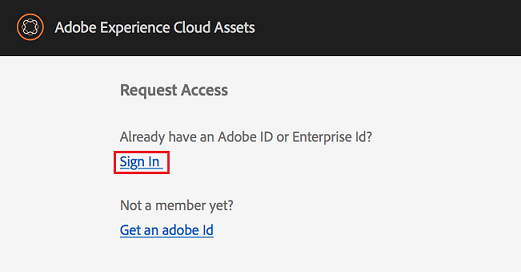
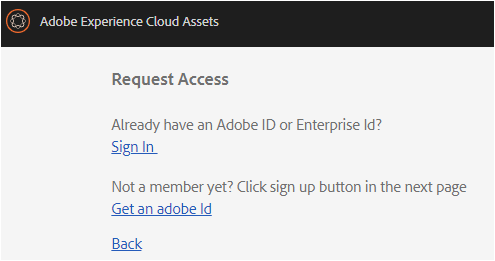
minorfixes to overview

diff --git a/help/using/brand-portal.md b/help/using/brand-portal.md
@@ -130,40 +130,38 @@ To request access, do the following:
 2. To be able to request access to an organization’s Brand Portal, you must have a valid Adobe ID, Enterprise ID, or Federated ID.
 
    In the **Request Access** page, sign in using your ID (scenario 1) or create an Adobe ID (scenario 2):
-
-    * Scenario 1: If you have an Adobe ID, Enterprise ID, or Federated ID, click **Sign In**.
-
    ![Request access](assets/bplogin_request_access_2.png)
 
-   The **Sign in** page opens. Provide your Adobe ID credentials and click **Sign in**.
-   ![Adobe sign in](assets/bplogin_request_access_3.png)
+    **Scenario 1**
+    **i.** If you have an Adobe ID, Enterprise ID, or Federated ID, click **Sign In**.
+    The **Sign in** page opens.
+    **ii.** Provide your Adobe ID credentials and click **Sign in**.
+    ![Adobe sign in](assets/bplogin_request_access_3.png)
 
    You are redirected to the **Request Access** page.
-
-    * Scenario 2: If you do not have an Adobe ID, to create one, click **Get an Adobe ID** from the** Request Access** page.
-    ![](assets/bplogin_request_access21.png)
-
-   The **Sign in** page opens. Click **Get an Adobe ID**.
-   ![](assets/bplogin_request_access_4.png)
-
-   The **Sign up** page opens. Enter your first and last name, email ID, and password. Click **Sign up**.
+    **Scenario 2**
+    **i.** If you do not have an Adobe ID, to create one, click **Get an Adobe ID** from the **Request Access** page.
+    The **Sign in** page opens.
+    **ii.** Click **Get an Adobe ID**.
+    ![](assets/bplogin_request_access_4.png)
+    The **Sign up** page opens.
+    **iii.** Enter your first and last name, email ID, and password. Click **Sign up**.
    ![](assets/bplogin_request_access_5.png)
 
    You are redirected to the **Request Access** page.
 
-3. The next page displays the current user’s name and email ID being used to request access. Leave a comment for the administrator, and click **Submit**.
+3. The next page displays the your name and email ID used to request access. Leave a comment for the administrator, and click **Submit**.
 
    ![](assets/bplogin-request-access.png)
 
-   Brand Portal product administrators receive access requests in their Brand Portal notification area and through emails in their inbox.
+## Product administrators grant access {#grant-access-to-brand-portal}
 
-   ![Access requested notification](assets/bplogin_request_access_7.png)
+Brand Portal product administrators receive access requests in their Brand Portal notification area and through emails in their inbox.
 
-   >[!NOTE]
-   >
-   >Step 4 onwards, the workflow is applicable only to Brand Portal product administrators.
+![Access requested notification](assets/bplogin_request_access_7.png)
 
-4. To grant access, click the relevant notification in Brand Portal notification area and then click **Grant Access**. Alternatively, follow the link provided in the access request email to visit Adobe Admin Console and add the user to the relevant product configuration.
+To grant access, product administrators need to click the relevant notification in Brand Portal notification area and then click **Grant Access**.
+Alternatively, product administrators can follow the link provided in the access request email to visit Adobe Admin Console and add the user to the relevant product configuration.
 ![](assets/bplogin_request_access_8.png)
 
 You are redirected to the [Adobe Admin Console](https://adminconsole.adobe.com/enterprise/overview) home page. Use Adobe Admin Console to create users and assign them to product profiles (formerly known as product configurations), which show as groups in Brand Portal. For more information about adding users in Admin Console, see [Add a user](brand-portal-adding-users.md#add-a-user) (follow Steps 4-7 in the procedure to add a user).
